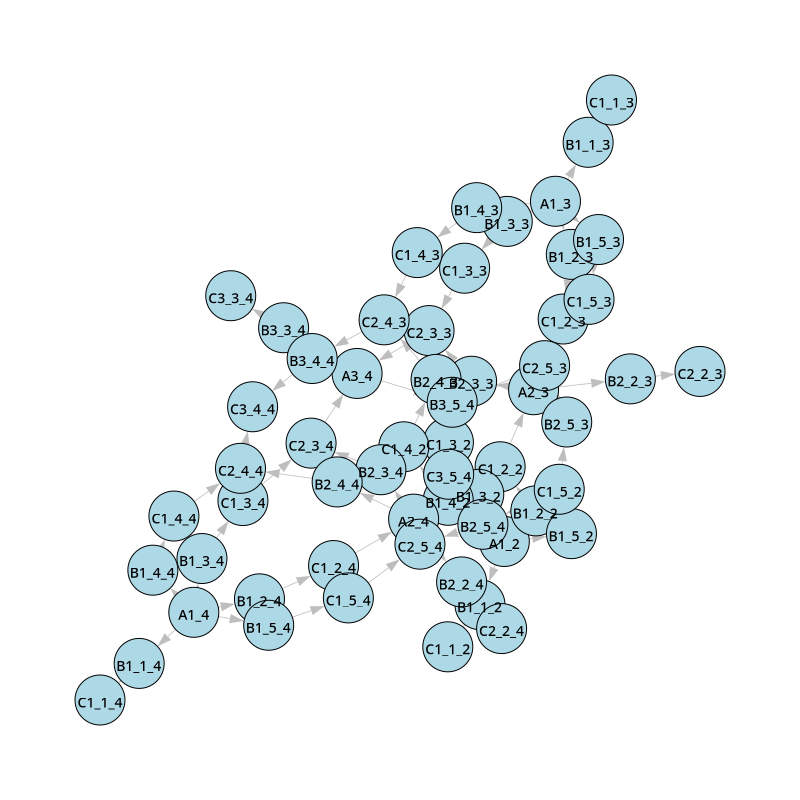
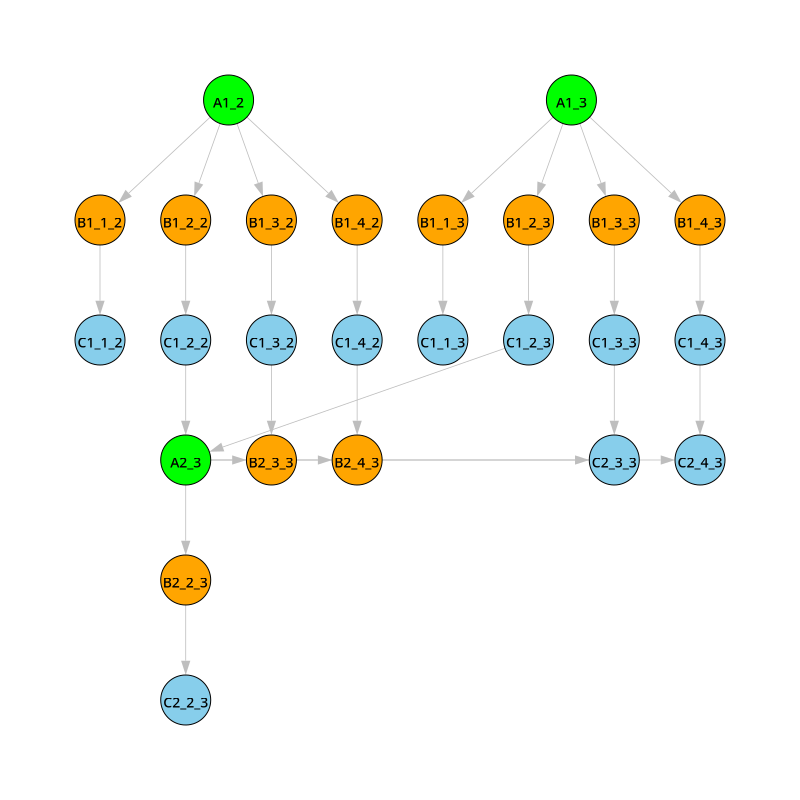
graph colloring and plot changes, general clean up

diff --git a/homeworks/Concurrent_Gaussian_Eliminator/cge.py b/homeworks/Concurrent_Gaussian_Eliminator/cge.py
@@ -1,5 +1,4 @@
 from lib.GaussianEliminationDependencyAnalysisTool.gedat import GEDAT
-from lib.GaussianEliminationDependencyAnalysisTool.modules.task import Task
 from modules.file_input_parser import FileInputParser
 import concurrent.futures
 
@@ -13,12 +12,12 @@ class CGE:
         self.fnf = self.gedat.get_fnf()
 
     
-    # A_i_k - finding the multiplier for row i to subtract it from row k
+    # A_i_k - finding the multiplier for row i to subtract it from row k,
     # m_k_i = M_k_i/M_i_i
     def thread_A(self, m: list[list[float]], M: list[list[float]], i: int, k: int):
         m[k][i] = M[k][i] / M[i][i]
     
-    # B_i_j_k - multiplying the j-th element of row i by the multiplier to subtract from row k
+    # B_i_j_k - multiplying the j-th element of row i by the multiplier to subtract from row k,
     # n_k_i_j = M_i_j * m_k_i
     def thread_B(self, n: list[list[list[float]]], m: list[list[float]], M: list[list[float]], i: int, j: int, k: int):
         n[k][i][j] = M[i][j] * m[k][i]
@@ -28,25 +27,6 @@ class CGE:
     def thread_C(self, M: list[list[float]], n: list[list[list[float]]], i: int, j: int, k: int):
         M[k][j] = M[k][j] - n[k][i][j]
     
-    def print_2d_matrix(self, matrix: list[list[float]]):
-        for row in matrix:
-            for i, elem in enumerate(row):
-                if i == len(row)-1:
-                    print(f'| {elem:.2f}')
-                else:
-                    print(f'{elem:.2f}', end=' ')
-
-    def print_3d_matrix(self, matrix: list[list[list[float]]]):
-        for i, row in enumerate(matrix):
-            print(f'k = {i}')
-            for j, col in enumerate(row):
-                for k, elem in enumerate(col):
-                    if k == len(col)-1:
-                        print(f'| {elem:.2f}')
-                    else:
-                        print(f'{elem:.2f}', end=' ')
-            print()
-
     def run(self, verbose=False):
         print('Running CGE...')
 
@@ -77,6 +57,27 @@ class CGE:
         print('Result:')
         self.print_2d_matrix(self.M)
 
+####################################################################################################
+
+    def print_2d_matrix(self, matrix: list[list[float]]):
+        for row in matrix:
+            for i, elem in enumerate(row):
+                if i == len(row)-1:
+                    print(f'| {elem:.2f}')
+                else:
+                    print(f'{elem:.2f}', end=' ')
+
+    def print_3d_matrix(self, matrix: list[list[list[float]]]):
+        for i, row in enumerate(matrix):
+            print(f'k = {i}')
+            for j, col in enumerate(row):
+                for k, elem in enumerate(col):
+                    if k == len(col)-1:
+                        print(f'| {elem:.2f}')
+                    else:
+                        print(f'{elem:.2f}', end=' ')
+            print()
+
     def save_matrix(self, file_name):
         with open(file_name, 'w') as f:
             for row in self.M:
@@ -85,4 +86,3 @@ class CGE:
                         f.write(f'{elem:.2f}\n')
                     else:
                         f.write(f'{elem:.2f} ')
-    

diff --git a/homeworks/Concurrent_Gaussian_Eliminator/lib/DependencyAnalysisTool/dat.py b/homeworks/Concurrent_Gaussian_Eliminator/lib/DependencyAnalysisTool/dat.py
@@ -2,22 +2,38 @@ from .modules.input_parser import InputParser
 from .modules.dependency_matrix import DependencyMatrix
 from .modules.dependency_graph import DependencyGraph
 from .modules.fnf_determinator import FNFDeterminator
+import threading
 from .config import Config
 
 
 class DAT:
-    def __init__(self, config: Config):
+    def __init__(self, alphabet, raw_trace, raw_transactions, config: Config):
         self.config = config
         
-        self.parser = InputParser(config.alphabet, config.raw_trace, config.raw_transactions)
+        self.parser = InputParser(alphabet, raw_trace, raw_transactions)
 
         self.dependency_matrix = DependencyMatrix(self.parser.alphabet, self.parser.transactions)
 
-        self.dependency_graph = DependencyGraph(self.dependency_matrix, self.parser.trace, config.labels_with_indices)
+        self.dependency_graph = DependencyGraph(self.dependency_matrix, self.parser.trace, config.LABELS_WITH_INDICES)
         self.dependency_graph.transitive_reduction()
 
         self.fnf_determinator = FNFDeterminator(self.dependency_graph.G, self.parser.trace)
         self.fnf_determinator.find_fnf()
+
+        if config.PRINT_FNF:
+            self.print_fnf()
+        
+        if config.SAVE_FNF:
+            self.save_fnf()
+
+        if config.PRINT_PLOT:
+            self.print_graph()
+        
+        if config.EXPORT_PLOT_TO_PNG:
+            self.save_graph_to_png()
+
+        if config.EXPORT_GRAPH_TO_DOT:
+            self.export_graph_to_dot()
 
     def printDependencyList(self):
         self.dependency_matrix.print_dependency_list()
@@ -32,13 +48,15 @@ class DAT:
         return self.fnf_determinator.get_fnf()
 
     def save_fnf(self):
-        self.fnf_determinator.save_fnf(self.config.output_directory_path)
+        self.fnf_determinator.save_fnf(self.config.OUTPUT_DIRECTORY_PATH)
 
     def print_graph(self):
-        self.dependency_graph.print_graph()
+        graph_thread = threading.Thread(target=self.dependency_graph.print_graph)
+        graph_thread.start()
+        # self.dependency_graph.print_graph()
 
     def save_graph_to_png(self):
-        self.dependency_graph.save_graph(self.config.output_directory_path)
+        self.dependency_graph.save_graph(self.config.OUTPUT_DIRECTORY_PATH)
 
     def export_graph_to_dot(self):
-        self.dependency_graph.export_to_dot(self.config.output_directory_path)
+        self.dependency_graph.export_to_dot(self.config.OUTPUT_DIRECTORY_PATH)

diff --git a/homeworks/Concurrent_Gaussian_Eliminator/lib/DependencyAnalysisTool/modules/dependency_graph.py b/homeworks/Concurrent_Gaussian_Eliminator/lib/DependencyAnalysisTool/modules/dependency_graph.py
@@ -3,15 +3,21 @@ from ..modules.dependency_matrix import DependencyMatrix
 import matplotlib.pyplot as plt
 import igraph as ig
 import numpy as np
+import warnings
 
-# Try to uncomment if not working:
-# import matplotlib
-# matplotlib.use('TkAgg')
+
+ # Ignore warnings from matplotlib - UserWarning: Starting a Matplotlib GUI outside of the main thread will likely fail
+warnings.simplefilter("ignore", UserWarning)
 
 
 class DependencyGraph:
     def __init__(self, matrix: DependencyMatrix, w: str, labels_with_indices=False):
         self.labels_with_indices: bool = labels_with_indices
+        self.default_vertex_color: str = 'lightblue'
+        self.default_edge_color: str = 'gray'
+        self.default_layout: str = 'tree'
+        self.vertex_type_colors = {'A': 'green', 'B': 'orange', 'C': 'skyblue'}
+
         self.FNF: list[list[str]]
 
         edges = []
@@ -54,14 +60,19 @@ class DependencyGraph:
 
     def print_graph(self):
         fig, ax = plt.subplots()
+        left = 0.03
+        bottom = 0.03
+        width = 0.94
+        height = 0.94
+        ax = fig.add_axes([left, bottom, width, height])
         ig.plot(
             self.G,
             target=ax,
-            vertex_size=50,
-            vertex_color='lightblue',
+            vertex_size=60,
+            vertex_color=[self.get_vertex_color(v) for v in self.G.vs],
             edge_width=0.8,
-            edge_color="gray",
-            layout=self.G.layout("fr"),
+            edge_color=self.default_edge_color,
+            layout=self.G.layout(self.default_layout),
         )
         plt.show()
 
@@ -73,11 +84,14 @@ class DependencyGraph:
             self.G,
             target=directory_path + 'plot.png',
             vertex_size=50,
-            vertex_color='lightblue',
+            vertex_color=[self.get_vertex_color(v) for v in self.G.vs],
             edge_width=0.8,
-            edge_color="gray",
-            layout=self.G.layout("fr"),
+            edge_color=self.default_edge_color,
+            layout=self.G.layout(self.default_layout),
             bbox=(800, 800),
             margin=100
         )
+
+    def get_vertex_color(self, v):
+        return self.vertex_type_colors.get(v['label'][0], self.default_vertex_color)
 

diff --git a/homeworks/Concurrent_Gaussian_Eliminator/lib/GaussianEliminationDependencyAnalysisTool/gedat.py b/homeworks/Concurrent_Gaussian_Eliminator/lib/GaussianEliminationDependencyAnalysisTool/gedat.py
@@ -1,19 +1,27 @@
 from lib.DependencyAnalysisTool.dat import DAT
 from lib.DependencyAnalysisTool.config import Config as DATConfig
-import lib.GaussianEliminationDependencyAnalysisTool.config as cfg
+from lib.GaussianEliminationDependencyAnalysisTool.config import Config
 from lib.GaussianEliminationDependencyAnalysisTool.modules.task import Task
 
 
 # Gaussian Elimination Dependency Analysis Tool
 class GEDAT:
-    def __init__(self, matrix_size: int):
+    def __init__(self, matrix_size: int, cfg: Config = Config()):
         self.matrix_size = matrix_size
         self.build_alphabet()
         self.build_transactions()
         self.build_trace()
         
-        dat_config = DATConfig(self.alphabet, self.trace, self.transactions, cfg.OUTPUT_DIRECTORY_PATH, cfg.LABELS_WITH_INDICES)
-        self.dat = DAT(dat_config)
+        dat_config = DATConfig(
+            OUTPUT_DIRECTORY_PATH=cfg.OUTPUT_DIRECTORY_PATH,
+            PRINT_FNF=cfg.PRINT_FNF,
+            SAVE_FNF=cfg.SAVE_FNF,
+            PRINT_PLOT=cfg.PRINT_PLOT,
+            EXPORT_PLOT_TO_PNG=cfg.EXPORT_PLOT_TO_PNG,
+            EXPORT_GRAPH_TO_DOT=cfg.EXPORT_GRAPH_TO_DOT,
+            LABELS_WITH_INDICES=cfg.LABELS_WITH_INDICES
+        )
+        self.dat = DAT(self.alphabet,self.trace, self.transactions, dat_config)
 
     def build_alphabet(self):
         self.alphabet = []
@@ -49,13 +57,3 @@ class GEDAT:
                 fnf_section.append(Task(task))
             fnf.append(fnf_section)
         return fnf
-
-
-if __name__ == '__main__':
-    cge = GEDAT(4)
-    # cge.dat.print_fnf()
-    # cge.dat.print_graph()
-    cge.dat.save_graph_to_png()
-    cge.dat.export_graph_to_dot()
-    cge.dat.save_fnf()
-    print(cge.get_fnf())

diff --git a/homeworks/Concurrent_Gaussian_Eliminator/lib/DependencyAnalysisTool/config.py b/homeworks/Concurrent_Gaussian_Eliminator/lib/DependencyAnalysisTool/config.py
@@ -1,14 +1,19 @@
 class Config:
     def __init__(
-        self,
-        alphabet: list[str],
-        raw_trace: str,
-        raw_transactions: dict[str, str],
-        output_directory_path:str,
-        labels_with_indices:bool=False
+            self,
+            OUTPUT_DIRECTORY_PATH:str="OUTPUTS/",
+            PRINT_FNF:bool=False,
+            SAVE_FNF:bool=False,
+            PRINT_PLOT:bool=False,
+            EXPORT_PLOT_TO_PNG:bool=False,
+            EXPORT_GRAPH_TO_DOT:bool=False,
+            LABELS_WITH_INDICES:bool=False
         ):
-        self.alphabet = alphabet
-        self.raw_trace = raw_trace
-        self.raw_transactions = raw_transactions
-        self.output_directory_path = output_directory_path
-        self.labels_with_indices = labels_with_indices
+        self.OUTPUT_DIRECTORY_PATH = OUTPUT_DIRECTORY_PATH
+        self.PRINT_FNF = PRINT_FNF
+        self.SAVE_FNF = SAVE_FNF
+        self.PRINT_PLOT = PRINT_PLOT
+        self.EXPORT_PLOT_TO_PNG = EXPORT_PLOT_TO_PNG
+        self.EXPORT_GRAPH_TO_DOT = EXPORT_GRAPH_TO_DOT
+        self.LABELS_WITH_INDICES = LABELS_WITH_INDICES
+

diff --git a/homeworks/Concurrent_Gaussian_Eliminator/lib/GaussianEliminationDependencyAnalysisTool/config.py b/homeworks/Concurrent_Gaussian_Eliminator/lib/GaussianEliminationDependencyAnalysisTool/config.py
@@ -1,7 +1,18 @@
-OUTPUT_DIRECTORY_PATH = "outputs/"
-PRINT_FNF = False
-SAVE_FNF = True
-PRINT_PLOT = False
-EXPORT_PLOT_TO_PNG = True
-EXPORT_GRAPH_TO_DOT = True
-LABELS_WITH_INDICES = False
+class Config:
+    def __init__(
+            self,
+            OUTPUT_DIRECTORY_PATH="outputs/",
+            PRINT_FNF=False,
+            SAVE_FNF=True,
+            PRINT_PLOT=True,
+            EXPORT_PLOT_TO_PNG=True,
+            EXPORT_GRAPH_TO_DOT=True,
+            LABELS_WITH_INDICES=False
+        ):
+        self.OUTPUT_DIRECTORY_PATH = OUTPUT_DIRECTORY_PATH
+        self.PRINT_FNF = PRINT_FNF
+        self.SAVE_FNF = SAVE_FNF
+        self.PRINT_PLOT = PRINT_PLOT
+        self.EXPORT_PLOT_TO_PNG = EXPORT_PLOT_TO_PNG
+        self.EXPORT_GRAPH_TO_DOT = EXPORT_GRAPH_TO_DOT
+        self.LABELS_WITH_INDICES = LABELS_WITH_INDICES
